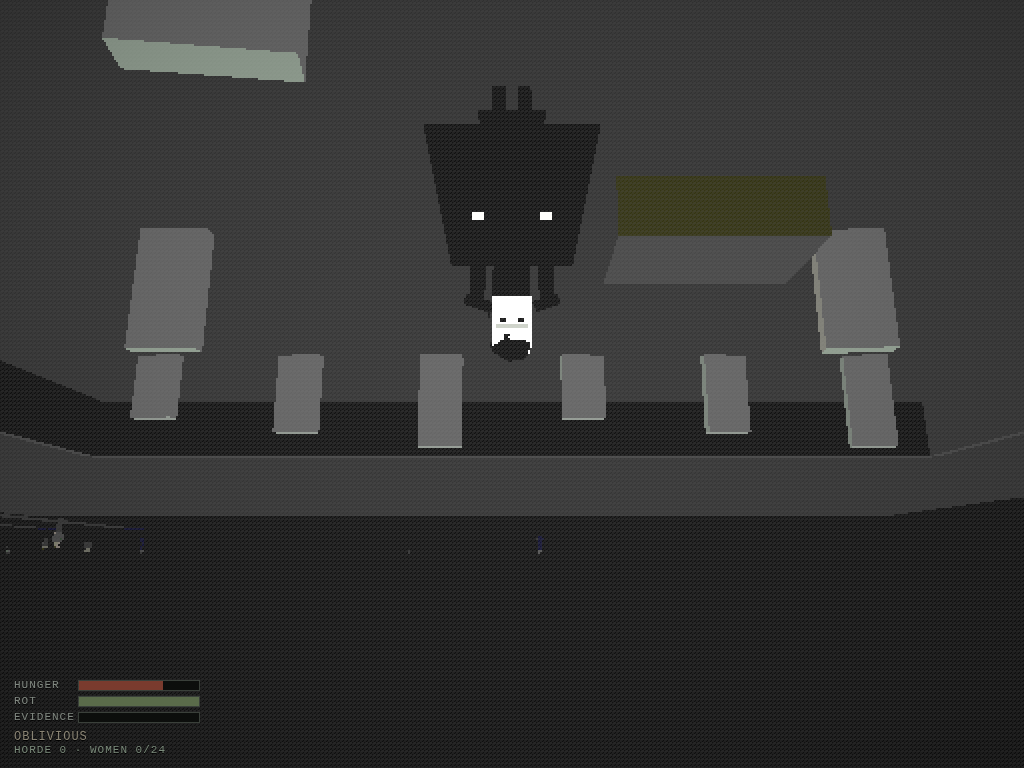
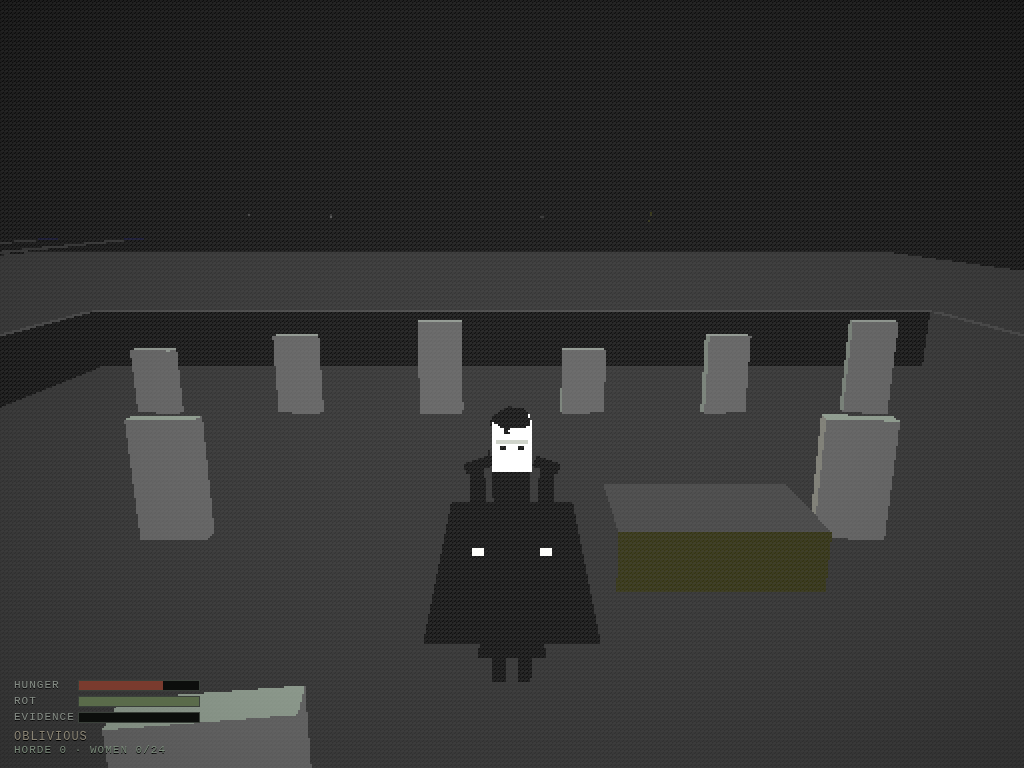
Fix upside-down frame (flip quad UV for RT), camera boom collision, audio wired into interactions (kill/convert), regions analyzer

diff --git a/src/game/audio.js b/src/game/audio.js
@@ -1,0 +1,74 @@
+// Game audio: variant pools, event triggers, proximity mix. Web Audio API,
+// unlocked on first user gesture. Close, wet, over-loud register per spec.
+import { CFG } from '../config.js';
+
+export async function createAudio() {
+  const ctx = new AudioContext();
+  const master = ctx.createGain();
+  master.gain.value = 1.0;
+  master.connect(ctx.destination);
+
+  const manifest = await (await fetch('/assets/audio/manifest.json')).json();
+  const pools = {}; // event -> AudioBuffer[]
+  await Promise.all(Object.entries(manifest).map(async ([event, files]) => {
+    pools[event] = await Promise.all(files.map(async (f) => {
+      const res = await fetch(`/assets/audio/${event}/${f}`);
+      return ctx.decodeAudioData(await res.arrayBuffer());
+    }));
+  }));
+
+  const pick = (event) => pools[event]?.[Math.floor(Math.random() * pools[event].length)];
+
+  function play(event, { gain = 1, rate = 1, detune = 0 } = {}) {
+    const buf = pick(event);
+    if (!buf) return null;
+    const src = ctx.createBufferSource();
+    src.buffer = buf;
+    src.playbackRate.value = rate * (0.94 + Math.random() * 0.12); // variant pitch
+    if (detune) src.detune.value = detune;
+    const g = ctx.createGain();
+    g.gain.value = gain;
+    src.connect(g).connect(master);
+    src.start();
+    return src;
+  }
+
+  // ambience bed: night town loop + drone, quiet
+  let bedStarted = false;
+  function startBed() {
+    if (bedStarted) return;
+    bedStarted = true;
+    const amb = pick('ambience');
+    if (amb) {
+      const src = ctx.createBufferSource();
+      src.buffer = amb;
+      src.loop = true;
+      const g = ctx.createGain();
+      g.gain.value = 0.35;
+      src.connect(g).connect(master);
+      src.start();
+    }
+  }
+
+  // unlock on first gesture (browser autoplay policy)
+  const unlock = () => { ctx.resume(); startBed(); window.removeEventListener('pointerdown', unlock); };
+  window.addEventListener('pointerdown', unlock);
+
+  return {
+    ctx,
+    play,
+    startBed,
+    // composite events — layered per Fight Club register
+    kill() {
+      play('impact', { gain: 1.0 });
+      setTimeout(() => play('wet', { gain: 0.9 }), 90 + Math.random() * 80);
+      setTimeout(() => play('breath', { gain: 0.55 }), 350);
+      setTimeout(() => play('tail', { gain: 0.4 }), 900);
+    },
+    convert() {
+      play('convert', { gain: 0.7 });
+      setTimeout(() => play('breath', { gain: 0.35, rate: 0.9 }), 500);
+    },
+    feed() { play('breath', { gain: 0.6, rate: 0.85 }); },
+  };
+}

diff --git a/src/main.js b/src/main.js
@@ -10,6 +10,7 @@ import { createGameState } from './game/state.js';
 import { createHUD } from './game/hud.js';
 import { createGore } from './game/gore.js';
 import { createInteractions } from './game/interactions.js';
+import { createAudio } from './game/audio.js';
 import { CFG } from './config.js';
 
 const canvas = document.getElementById('game');
@@ -59,8 +60,9 @@ const residents = createResidents(scene, town, CFG, (r) => {
 });
 gameState.state.womenTotal = residents.list.filter((r) => r.role === 'woman').length;
 
+const audio = await createAudio().catch(() => null); // non-fatal if fetch fails
 const interactions = createInteractions({
-  player, residents, takeDirector, gore, gameState, audio: null,
+  player, residents, takeDirector, gore, gameState, audio,
 });
 
 const hud = createHUD(document.getElementById('hud'), gameState);
@@ -109,11 +111,21 @@ renderer.setAnimationLoop(() => {
     // interact
     if (input.interact) interactions.tryInteract();
 
-    // third-person camera follow
-    const cd = CFG.camera.thirdDist, ch = CFG.camera.thirdHeight;
-    const cx = player.position.x - Math.sin(camYaw) * cd * Math.cos(camPitch);
-    const cz = player.position.z - Math.cos(camYaw) * cd * Math.cos(camPitch);
-    const cy = player.position.y + ch - Math.sin(camPitch) * cd;
+    // camera collision: keep the eye out of buildings
+    const camClear = (x, z) => !isBlocked(town.navGrid, town.gridSize, town.origin, town.cellSize, x, z);
+
+    // third-person camera follow (shorten boom if a building blocks it)
+    let cd = CFG.camera.thirdDist;
+    const ch = CFG.camera.thirdHeight;
+    let cx = 0, cz = 0, cy = 0;
+    for (let k = 1; k >= 0.3; k -= 0.15) {
+      const d = cd * k;
+      cx = player.position.x - Math.sin(camYaw) * d * Math.cos(camPitch);
+      cz = player.position.z - Math.cos(camYaw) * d * Math.cos(camPitch);
+      if (camClear(cx, cz)) { cd = d; break; }
+      cd = d;
+    }
+    cy = player.position.y + ch - Math.sin(camPitch) * cd;
     camera.position.set(cx, cy, cz);
     camTarget.set(
       player.position.x + Math.sin(camYaw) * 2,

diff --git a/src/engine/post.js b/src/engine/post.js
@@ -2,7 +2,7 @@
 // Bayer dither, vignette) and nearest-upscale to screen via a fullscreen quad
 // (compatible with WebGPU + WebGL2 backends). TSL throughout.
 import * as THREE from 'three/webgpu';
-import { texture, Fn, vec3, vec4, screenCoordinate, mix, uniform, fract, floor, dot, uv, float } from 'three/tsl';
+import { texture, Fn, vec2, vec3, vec4, screenCoordinate, mix, uniform, fract, floor, dot, uv, float } from 'three/tsl';
 import { CFG } from '../config.js';
 
 // ordered dither from pixel position (portable across WGSL/GLSL)
@@ -28,7 +28,7 @@ export function createPostPipeline(renderer, scene, camera) {
   const exposure = uniform(CFG.render.exposure ?? 1.0);
 
   const mat = new THREE.MeshBasicNodeMaterial();
-  const src = texture(rt.texture);
+  const src = texture(rt.texture, uv().mul(vec2(1, -1)).add(vec2(0, 1))); // flip Y: RT is bottom-up vs screen quad
 
   mat.colorNode = Fn(() => {
     const frag = src;

diff --git a/src/game/interactions.js b/src/game/interactions.js
@@ -83,7 +83,7 @@ export function createInteractions({ player, residents, takeDirector, gore, game
       applyTurn(target.group);
       target.state = 'turned';
       gameState.spendConvert();
-      // silent: no evidence, no body, no audio
+      audio?.convert(); // quiet, unsettling — not silent to the player
     });
   }
 
@@ -91,6 +91,7 @@ export function createInteractions({ player, residents, takeDirector, gore, game
   function startKill(target) {
     target.state = 'taken';
     kill = { target, phase: 'pre', holdT: 0, burst40: false };
+    audio?.kill(); // impact+wet+breath+tail layers, fired at cut
     takeDirector.start(target, 'kill', () => {
       finishKill(target);
       kill = null;
